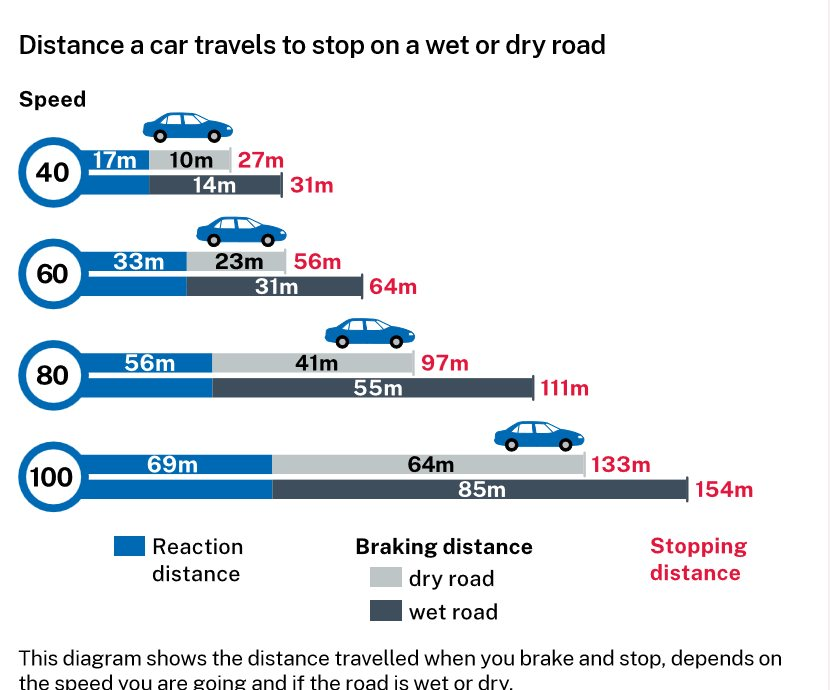
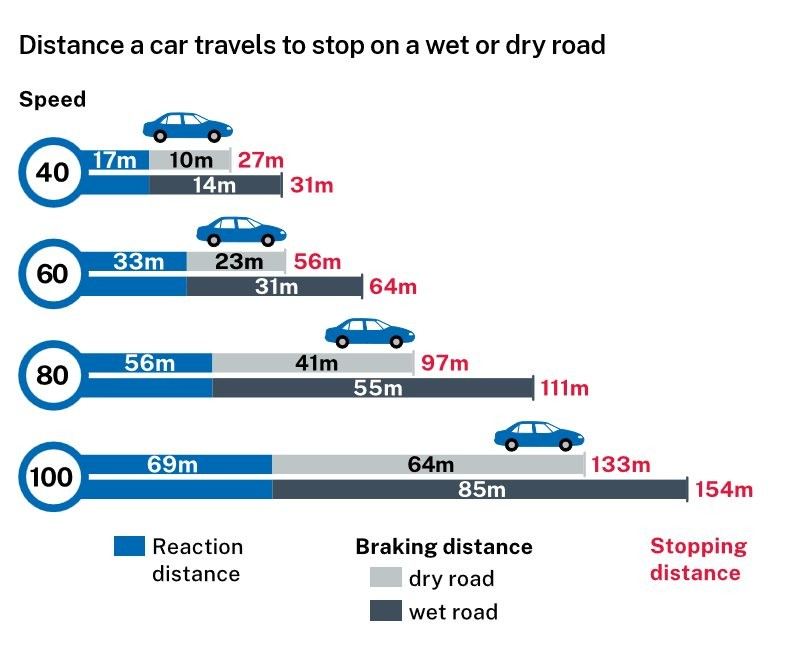
Handbook sample-chapter pass: numbered chapters, indented subsections, fixed P1/P2 BAC, condensed bullets, clean sign/crash-diagram crops
- Sidebar chapter icons replaced with order numbers (1, 2, 3...)
- Subsection list now visually indented under its chapter
- Fixed BAC table: Provisional P1 and P2 are both Zero, not 0.05/0.02
- Condensed "Safe driving behaviour" chapter bullets to key points only
- Replaced 2 badly-cropped composite sign screenshots with 8 clean individual sign crops (own captions)
- Replaced 2 crash-type composites (clipped/missing labels) with 5 individual diagram crops
- Tightened stopping-distance-chart.jpg crop (was cutting off its own caption)

Changed region(s): [[0.0, 0.124, 0.9375, 1.0], [0.0, 0.031, 0.7812, 0.093]]

diff --git a/data/handbook.js b/data/handbook.js
@@ -140,41 +140,47 @@ window.HANDBOOK = [
         "title": "Speed limits",
         "page": 32,
         "figures": [
-          { "src": "images-handbook/speed-signs-1.png", "caption": "Regulatory, variable, local traffic area and high pedestrian activity speed signs." },
-          { "src": "images-handbook/speed-signs-2-zones.png", "caption": "Shared zone and school zone speed signs." }
+          { "src": "images-handbook/speed-sign-regulatory.png", "caption": "Regulatory sign: white background, red circle — the legal limit." },
+          { "src": "images-handbook/speed-sign-variable.png", "caption": "Variable electronic signs — change with road conditions." },
+          { "src": "images-handbook/speed-sign-local-traffic-area.png", "caption": "Local traffic area — 40km/h residential streets." },
+          { "src": "images-handbook/speed-sign-high-pedestrian.png", "caption": "High pedestrian activity area — 30 or 40km/h." },
+          { "src": "images-handbook/speed-sign-shared-zone.png", "caption": "Shared zone (10km/h) and its end sign." },
+          { "src": "images-handbook/speed-sign-school-zone-flag.png", "caption": "School zone start sign." },
+          { "src": "images-handbook/speed-sign-school-zone-times.png", "caption": "School zone times and speed limit." },
+          { "src": "images-handbook/speed-sign-school-zone-end.png", "caption": "End of school zone — limit reverts." }
         ],
         "bullets": [
-          "Speeding is the number one killer on NSW roads — a factor in around 40% of deaths and 20% of serious injuries each year.",
-          "Default limits where there's no sign: 50km/h in built-up areas (street lights/buildings less than 100m apart); 100km/h everywhere else. Where a sign is posted, you must not exceed it.",
-          "Your licence caps the speed you can drive even if the sign is higher: Learner and P1 capped at 90km/h; P2 at 100km/h; heavy vehicles over 4.5t GVM (LR/MR/HR/HC/MC) capped at 100km/h.",
-          "It's illegal to carry a radar detector or jammer — anything that detects, interferes with or reduces the effectiveness of speed-measuring devices.",
-          "Penalties: fines, demerit points (including doubled), loss of licence, vehicle/plate impoundment — worse the further over and in school zones. Any speeding offence puts a learner or P1 driver over their demerit limit and suspends their licence.",
-          "Sign types: regulatory (white sign, red circle = legal limit); variable electronic signs (tunnels/motorways/bridges, change with conditions); local traffic areas (40km/h residential streets); high pedestrian activity areas (30 or 40km/h, e.g. CBDs/shopping strips); shared zones (10km/h, must give way to pedestrians); school zones (signed times on school days, flashing lights plus \"dragon's teeth\" road markings); school bus stop zones and buses showing \"40 when lights flash\" (max 40km/h passing in either direction while flashing); roadwork zones (signed limit).",
-          "Advisory speed signs (yellow) show a safe recommended speed for hazards like curves — not a legal limit, but slow further still in poor conditions.",
-          "Four speed camera types: mobile (moved anywhere, anytime), red-light speed cameras (multi-lane intersections), fixed (high-risk locations like tunnels), average speed cameras (measure average speed over a distance).",
-          "Even 5–10km/h over feels \"acceptable\" to some, but meaningfully raises crash risk — a pedestrian hit at 50km/h is about twice as likely to die as one hit at 40km/h."
+          "Speeding is the #1 killer on NSW roads (~40% of deaths, ~20% of serious injuries).",
+          "No sign = default limit: 50km/h built-up, 100km/h elsewhere. Never exceed a posted sign.",
+          "Licence caps regardless of the sign: Learner/P1 90km/h; P2 100km/h; heavy vehicles (LR/MR/HR/HC/MC) 100km/h.",
+          "Radar detectors/jammers are illegal to carry.",
+          "Penalties: fines, demerit points (can double), licence loss, impoundment — worse over the limit and in school zones; a learner/P1 speeding offence suspends their licence.",
+          "Sign types: regulatory (fixed limit); variable electronic (tunnels/motorways); local traffic area (40, residential); high pedestrian area (30/40); shared zone (10, give way to pedestrians); school zone (signed times, flashing lights, dragon's teeth); school bus \"40 when lights flash\"; roadwork zones (signed).",
+          "Advisory (yellow) signs are a recommended safe speed for a hazard, not a legal limit.",
+          "4 camera types: mobile, red-light speed, fixed, average-speed (over a distance).",
+          "Small margins matter: a pedestrian hit at 50km/h is ~2x as likely to die as one hit at 40km/h."
         ]
       },
       {
         "title": "Alcohol limits",
         "page": 39,
         "bullets": [
-          "Your legal blood alcohol concentration (BAC) limit depends on your licence and the vehicle you're driving — see the table below.",
-          "You can't reliably estimate your own BAC — size, tiredness and serving size all vary it, so not drinking at all is the only sure way to stay under.",
-          "Must not drive under the influence of alcohol, and must not drink alcohol while actually driving even if you'd stay under your limit.",
-          "Must not refuse a Random Breath Test — police can test you anytime, and must test any driver involved in a crash.",
-          "Must not refuse a blood/urine test after a crash; police can arrest you for one after a fatal/likely-fatal crash, and hospital staff can test you if you're admitted.",
-          "Penalties scale with how far over the limit and repeat offences: fines, loss of licence, prison, or a mandatory alcohol interlock. Drinking while driving under the limit still draws a fine and demerit points.",
-          "Even 1–2 drinks impair reaction, judgement and speed/distance perception, give false confidence, hurt multitasking and cause drowsiness.",
-          "Around 50% of Thursday/Friday/Saturday night fatal crashes involve alcohol, and drink-driving crashes tend to be more serious.",
-          "Only time reduces BAC — it can take 18+ hours after heavy drinking; coffee, a shower or a meal won't speed it up. Plan a non-driving way home if you're drinking."
+          "BAC limit depends on your licence/vehicle — see the table below.",
+          "Can't reliably estimate your own BAC — not drinking at all is the only sure way to stay under.",
+          "Must not drive under the influence, or drink alcohol while actually driving.",
+          "Must not refuse a Random Breath Test (anytime; mandatory after a crash).",
+          "Must not refuse a blood/urine test after a crash — arrest possible after a fatal/likely-fatal crash; hospital admission also testable.",
+          "Penalties scale with how far over + repeat offences: fines, licence loss, prison, or a mandatory alcohol interlock. Even under-limit drink-driving draws a fine and demerit points.",
+          "Even 1–2 drinks impair reaction, judgement and distance perception; cause false confidence and drowsiness.",
+          "~50% of Thu/Fri/Sat night fatal crashes involve alcohol.",
+          "Only time reduces BAC (18+ hours after heavy drinking) — not coffee, a shower or a meal."
         ],
         "table": {
           "headers": ["Licence / vehicle type", "BAC limit"],
           "rows": [
             ["Learner", "Zero"],
-            ["Provisional P1", "Under 0.05"],
-            ["Provisional P2", "Under 0.02"],
+            ["Provisional P1", "Zero"],
+            ["Provisional P2", "Zero"],
             ["Full licence (C/R), interstate/overseas full licence", "Under 0.05"],
             ["Public passenger vehicles (buses, taxis, rideshare, chauffeured hire cars)", "Under 0.02"],
             ["Heavy vehicles/combinations over 13.9 tonnes", "Under 0.02"],
@@ -186,13 +192,13 @@ window.HANDBOOK = [
         "title": "Drugs and medicines",
         "page": 43,
         "bullets": [
-          "Must not drive with illegal drugs present in your system, or under the influence of any drug — illegal, prescription or over-the-counter.",
-          "Mobile Drug Testing (MDT) can test any driver or supervisor for 4 common illegal drugs: ecstasy, cannabis, cocaine, methamphetamine (incl. speed/ice) — they can stay detectable long after use.",
-          "Testing methods: a random roadside saliva/oral-fluid swab for illegal drugs; a blood/urine test after signs of drug influence and a sobriety assessment, after a fatal/likely-fatal crash, or on hospital admission — covering a wider range of drugs and medicines. Must not refuse either.",
-          "Penalties: presence of illegal drugs → fine and licence loss; driving under the influence (incl. prescription drugs) → heavier penalties, up to prison.",
-          "Stimulants (ecstasy, cocaine, meth) create false confidence and encourage aggressive, risky driving; opiates (heroin, morphine, codeine, methadone) cause drowsiness and slow reactions; cannabis slows reactions and distorts perception of distance/time and decision-making.",
-          "Medicines that can affect driving: painkillers; blood pressure, nausea, allergy, anti-inflammatory and anti-fungal medicines; tranquillisers/sedatives/sleeping pills; diet pills; cold and flu medicines — check warning labels and ask a doctor or pharmacist if unsure.",
-          "Never mix drugs with alcohol or with each other — the effects are unpredictable and more dangerous."
+          "Must not drive with illegal drugs present, or under the influence of any drug (illegal, prescription or over-the-counter).",
+          "Mobile Drug Testing (MDT): roadside test for 4 illegal drugs (ecstasy, cannabis, cocaine, meth) — detectable long after use.",
+          "Testing: random roadside saliva swab; blood/urine test after signs of influence, a fatal/likely-fatal crash, or hospital admission (covers medicines too). Must not refuse.",
+          "Penalties: illegal drugs present → fine + licence loss; driving under the influence (incl. prescription) → heavier, up to prison.",
+          "Effects: stimulants (ecstasy/cocaine/meth) → false confidence, risky driving; opiates → drowsiness, slow reactions; cannabis → slower reactions, distorted perception.",
+          "Medicines that can affect driving: painkillers, blood pressure/nausea/allergy/anti-inflammatory/anti-fungal meds, tranquillisers/sedatives, diet pills, cold/flu meds — check labels, ask a doctor/pharmacist.",
+          "Never mix drugs with alcohol or each other."
         ]
       },
       {
@@ -202,15 +208,15 @@ window.HANDBOOK = [
           { "src": "images-handbook/seatbelt-fit.jpg", "caption": "The person with the tick is wearing their seatbelt correctly (low, flat and firm); the person with the cross is not." }
         ],
         "bullets": [
-          "Around 30 people are killed and 90 seriously injured each year in NSW from not wearing a seatbelt — preventable by wearing one properly.",
-          "Drivers and passengers must wear a seatbelt and keep their whole body inside the vehicle.",
-          "Driver's responsibility: one seatbelt per passenger (never shared), correctly adjusted belts or an approved child seat for each passenger's age/size, no more passengers than seats/belts allow, and nobody riding in a non-passenger area (boot, floor, ute tray, trailer, caravan).",
-          "Passengers aged 16+ are also responsible for wearing their own seatbelt properly and staying inside the vehicle.",
-          "Wear it \"low, flat and firm\": low over the hips, no twists or folds, pulled firm and over the shoulder — never under the arm or behind the back.",
-          "A seatbelt roughly doubles your chance of surviving a crash and reduces injury risk.",
-          "Penalties: seatbelt-detection cameras and police can fine the driver and any passenger 16+ for non-compliance; fines, demerit points and double demerit points apply.",
-          "Exemptions for full-licence drivers: while reversing, or driving a garbage/delivery vehicle under 25km/h with frequent stops; their passengers are exempt when giving/getting urgent medical treatment, or riding in that same slow garbage/delivery vehicle.",
-          "Any driver or passenger (incl. learner/P1/P2) can be exempt with a medical condition and certificate; where possible, an exempt passenger should sit in the back seat."
+          "~30 killed, ~90 seriously injured yearly in NSW from not wearing a seatbelt.",
+          "Drivers and passengers must wear a seatbelt, whole body inside the vehicle.",
+          "Driver's responsibility: one belt per passenger (never shared), correct fit or an approved child seat, no more passengers than belts, nobody in a non-passenger area (boot, floor, ute tray, trailer).",
+          "Passengers 16+ are also responsible for wearing their own belt properly.",
+          "Wear it \"low, flat and firm\" — never under the arm or behind the back.",
+          "A seatbelt roughly doubles your chance of surviving a crash.",
+          "Penalties: detection cameras + police can fine the driver and any passenger 16+; demerit points (can double).",
+          "Exemptions (full licence): reversing, or a slow garbage/delivery vehicle; their passengers when giving/getting urgent medical treatment.",
+          "Any driver/passenger (incl. learner/P1/P2) can be medically exempt with a certificate — sit in the back if possible."
         ]
       },
       {
@@ -220,14 +226,14 @@ window.HANDBOOK = [
           { "src": "images-handbook/child-seat-ages.jpg", "caption": "Children wearing their seatbelt or child restraint properly for their age." }
         ],
         "bullets": [
-          "Children under 7 must use an approved child restraint meeting AS/NZS 1754 — the driver is responsible for this. See the age bands below.",
-          "7–16 year-olds too small for an adult belt should use a booster, forward-facing seat or anchored harness; suggested minimum height for an adult lap-sash belt is 145cm.",
-          "Fitting must follow the manufacturer's instructions, tightly adjusted and attached to a proper anchorage point — an Authorised Restraint Fitter at an Authorised Restraint Fitting Station is recommended.",
-          "Booster seats must be used with a lap-and-sash belt or an approved anchored harness (never a lap-only belt); boosters over 2kg must be anchored.",
-          "Front seat: under-4s must not sit in front of a vehicle with 2+ rows (a single-row vehicle is OK with an approved seat); 4–7 year-olds must not sit in front of a 2+ row vehicle unless every back-row seat is already taken by other under-7s.",
-          "Exemptions: a child under 12 months can travel in a tow truck after a crash/breakdown without a proper seat if none is available; taxis follow the same age-based seat/booster/seatbelt rules and must carry a child-restraint anchorage point; a doctor's certificate lets an under-7 with a medical condition use an alternative restraint.",
-          "Penalties: fines and demerit points (incl. double demerit points) for not restraining a child correctly.",
-          "Never share one seatbelt between yourself and a child on your lap, and never carry a child in your arms in a moving vehicle — both risk crushing the child in a crash."
+          "Under-7s: approved restraint (AS/NZS 1754), driver's responsibility — see age table below.",
+          "7–16 too small for an adult belt: booster, forward-facing seat, or anchored harness (adult lap-sash belt needs ~145cm).",
+          "Fit per manufacturer's instructions, tightly adjusted, proper anchorage — an Authorised Restraint Fitter is recommended.",
+          "Booster seats: always with a lap-and-sash belt or anchored harness (never lap-only); boosters over 2kg must be anchored.",
+          "Front seat: under-4s never in a 2+ row vehicle; 4–7s only if every back-row seat is already taken by other under-7s.",
+          "Exemptions: under-12-months in a tow truck if no proper seat is available; taxis follow the same rules; doctor's certificate for an alternative restraint.",
+          "Penalties: fines and demerit points (can double) for not restraining a child correctly.",
+          "Never share a seatbelt with a child on your lap, and never carry a child in your arms while driving."
         ],
         "table": {
           "headers": ["Age", "Restraint required"],
@@ -243,22 +249,22 @@ window.HANDBOOK = [
         "title": "Mobile phones",
         "page": 54,
         "bullets": [
-          "Learner/P1/P2: must not use a phone at all while driving, even stationary — no calls, texts, music, email, social media, internet, maps or photos, whether handheld, in a holder, or hands-free/Bluetooth.",
-          "Full-licence drivers get only two uses: Bluetooth hands-free for voice calls or audio; or a vehicle-fixed phone holder for voice calls, audio, or as a driver's aid (maps/navigation/dispatch). The holder must be commercially made, fixed, and not block your view.",
-          "No other function is allowed for a full-licence driver either (texting, video calls, email, social media, internet, photography), and the phone must never be held or rested on the leg or between shoulder and ear.",
-          "Any driver can use a phone for any function once safely parked out of the line of traffic (ignition doesn't need to be off).",
-          "Exemptions for all drivers: showing a digital licence to police; a stationary tap-and-pay in a car park, driveway or drive-through.",
-          "Penalties: mobile phone detection cameras operate anywhere, anytime; fines and doubled demerit points apply, and a learner or P1 driver will go over their demerit limit and lose their licence.",
-          "Using a phone while driving can roughly quadruple the risk of a casualty crash."
+          "Learner/P1/P2: zero phone use while driving, even stationary — no calls, texts, music, maps or photos, handheld or hands-free/Bluetooth.",
+          "Full licence, only two uses: Bluetooth hands-free (calls/audio); or a fixed, commercially-made holder for calls/audio/navigation.",
+          "No other function for a full-licence driver either (texting, video, social media, photos); never held or rested on the leg/shoulder.",
+          "Any driver: any use once safely parked out of the line of traffic.",
+          "Exemptions: showing a digital licence to police; a stationary tap-and-pay.",
+          "Penalties: detection cameras operate anywhere/anytime; fines + doubled demerit points; a learner/P1 over the limit loses their licence.",
+          "Phone use while driving roughly quadruples casualty-crash risk."
         ]
       },
       {
         "title": "Digital screens and GPS",
         "page": 57,
         "bullets": [
-          "Must not have a digital screen (tablet, laptop, dashboard screen) switched on if you can see it or it could distract another driver — unless it's a driver's aid (GPS/navigation, dispatch, reversing screen, CCTV security, vehicle monitoring) fixed in a proper holder or built in.",
-          "Passengers can use screens, but they must not be visible to the driver from the normal driving position or distract another driver.",
-          "Penalties: fine and demerit points for illegal use."
+          "No visible/distracting digital screen unless it's a driver's aid (GPS, dispatch, reversing/CCTV/monitoring) properly fixed or built in.",
+          "Passengers can use screens if not visible to the driver or distracting.",
+          "Penalties: fine and demerit points."
         ]
       },
       {
@@ -268,32 +274,32 @@ window.HANDBOOK = [
           { "src": "images-handbook/rest-area-sign.jpg", "caption": "A rest area sign — rest areas are open 24/7 but you must not camp in them." }
         ],
         "bullets": [
-          "Fatigue causes around 20% of NSW road deaths each year; fatigue-related crashes are about twice as likely to be fatal.",
-          "Being awake for about 17 hours affects your driving similarly to a BAC of 0.05.",
-          "Affects everyone regardless of experience, and on short everyday trips, not just long or night drives. Higher-risk groups: shift workers, professional drivers, early-starting tradies, students, new parents.",
-          "There's no specific road rule against it, but it's your responsibility not to put yourself or others at risk.",
-          "Prevention: aim for about 8 hours' sleep a night (teens need more); wait ~30 minutes after waking before driving (sleep inertia); avoid driving during your body's normal sleep hours — fatal fatigue-crash risk is 4x higher late at night and early morning.",
-          "Warning signs: yawning, poor concentration, sore/tired eyes, restlessness, drowsiness, slow reactions, boredom, irritability, bigger/less frequent steering corrections, missing signs, drifting in the lane.",
-          "Stop and nap (about 20 minutes) as soon as you notice signs, rather than waiting for a microsleep — a 4-second microsleep at 100km/h covers 110m+ with your eyes off the road.",
-          "Plan regular breaks in advance, share the driving where you can, stay hydrated, and avoid alcohol, fatty food, too much coffee or sugary drinks.",
-          "Use rest areas (open 24/7, no camping), petrol stations, parks, country towns, or seasonal Driver Reviver sites for a free tea/coffee and a break."
+          "Causes ~20% of NSW road deaths; fatigue crashes ~2x as likely to be fatal.",
+          "Awake ~17 hours ≈ driving at a BAC of 0.05.",
+          "Affects everyone, even on short trips. Higher risk: shift workers, professional drivers, early-starting tradies, students, new parents.",
+          "No specific road rule against it, but it's your responsibility.",
+          "Prevention: ~8 hours' sleep a night; wait ~30 min after waking; avoid your body's normal sleep hours (fatal-crash risk 4x higher late night/early morning).",
+          "Warning signs: yawning, poor concentration, sore eyes, drowsiness, slow reactions, drifting, missing signs.",
+          "Stop and nap (~20 min) at the first signs — a 4-second microsleep at 100km/h covers 110m+ blind.",
+          "Plan breaks, share driving, stay hydrated; avoid alcohol, fatty food, too much coffee.",
+          "Rest areas (24/7, no camping), petrol stations, or seasonal Driver Reviver sites."
         ]
       },
       {
         "title": "Hooning and street racing",
         "page": 62,
         "bullets": [
-          "Must not organise, take part in, promote or even film/photograph hooning or street racing — including burnouts/donuts (deliberately losing traction), racing other vehicles, or speed trials/record attempts.",
-          "Your vehicle and licence can be confiscated on the spot.",
-          "Penalties: large fines, demerit points, loss of licence, impoundment (up to 3 months plus storage fees to reclaim it), and prison; a second offence can mean the vehicle is sold."
+          "Must not organise, take part in, promote or even film hooning or street racing (burnouts, racing other vehicles, speed trials).",
+          "Vehicle and licence can be confiscated on the spot.",
+          "Penalties: large fines, demerit points, licence loss, impoundment (up to 3 months + fees), prison; a repeat offence can mean the vehicle is sold."
         ]
       },
       {
         "title": "Negligent or dangerous driving",
         "page": 63,
         "bullets": [
-          "Means driving without the due care and attention reasonably expected of a driver, or at a speed/in a manner dangerous to the public — risking serious injury or death.",
-          "Penalties: negligent driving → fine and demerit points; dangerous driving, or negligent driving causing death or injury → large fines, loss of licence, prison."
+          "Negligent = below the care/attention expected of a driver; dangerous = speed/manner risking serious injury or death.",
+          "Penalties: negligent → fine + demerit points; dangerous, or negligent causing death/injury → large fines, licence loss, prison."
         ]
       },
       {
@@ -305,28 +311,30 @@ window.HANDBOOK = [
           { "src": "images-handbook/stopping-distance-chart.jpg", "caption": "The distance a car travels to stop at 40/60/80/100km/h, on a dry vs wet road." }
         ],
         "bullets": [
-          "Keep enough space to stop safely behind the vehicle in front — a 3-second gap in good conditions, rising to 4+ seconds in poor conditions (unsealed, icy or wet roads, night).",
-          "Driving a long vehicle (over 7.5m incl. towed): stay at least 60m behind another long vehicle, except on multi-lane roads, in built-up areas, or while overtaking.",
+          "Keep a 3-second gap behind the vehicle in front (4+ seconds in poor conditions: unsealed, icy/wet, night).",
+          "Long vehicle (over 7.5m incl. towed): stay 60m+ behind another long vehicle, except on multi-lane roads, built-up areas, or while overtaking.",
           "Penalties: fine and demerit points for following too closely.",
-          "Road positioning (\"buffering\"): keep space around your vehicle for hazards — e.g. keep left over blind hills/sharp corners, avoid the door zone of parked cars; check mirrors before repositioning.",
-          "Crash avoidance space = reaction time (~1.5s alert and sober, up to ~2.5s at higher speed) plus response time (~1.5s to act) — around a 3-second gap in good conditions.",
-          "Check your gap: pick a fixed roadside object, and count \"1 thousand and 1, 2 thousand and 2, 3 thousand and 3\" from when the vehicle ahead passes it — if you reach the object before finishing, you're following too close.",
-          "Even 5km/h over the limit meaningfully increases stopping distance; slow down and be ready to stop for anything that could enter your space, including at blind corners and crests.",
-          "Two-stage braking — light pressure and pause (set up), then progressively squeeze — reduces skidding and improves control versus harsh braking, especially on wet or gravel roads.",
-          "Scanning: keep your eyes moving — ahead, at the road surface, to each side, and regularly to your mirrors and instruments."
+          "Buffering: keep space around your vehicle for hazards (e.g. keep left over blind hills, avoid the door zone of parked cars); check mirrors before repositioning.",
+          "Crash-avoidance space = reaction time (~1.5–2.5s) + response time (~1.5s) ≈ a 3-second gap.",
+          "Check your gap: count \"1 thousand and 1, 2 thousand and 2, 3 thousand and 3\" from a fixed object as the vehicle ahead passes it — too close if you reach it first.",
+          "Even 5km/h over the limit meaningfully increases stopping distance — slow down at blind corners/crests.",
+          "Two-stage braking (light pressure + pause, then squeeze) beats harsh braking, especially wet/gravel.",
+          "Scanning: keep your eyes moving — ahead, road surface, each side, mirrors and instruments."
         ]
       },
       {
         "title": "Common crashes in NSW",
         "page": 69,
         "figures": [
-          { "src": "images-handbook/crash-types-1-3.jpg", "caption": "Crash type 1 (rear-end), 2 (adjacent direction) and 3 (opposite direction)." },
-          { "src": "images-handbook/crash-types-4-5.jpg", "caption": "Crash type 4 (running off a straight) and 5 (running off a curve or bend)." }
+          { "src": "images-handbook/crash-type-rearend.jpg", "caption": "1. Rear-end collision." },
+          { "src": "images-handbook/crash-type-adjacent.jpg", "caption": "2. Collision from an adjacent (side) direction." },
+          { "src": "images-handbook/crash-type-opposite.jpg", "caption": "3. Head-on collision with an oncoming vehicle." },
+          { "src": "images-handbook/crash-type-runoff-straight.jpg", "caption": "4. Running off the road on a straight." },
+          { "src": "images-handbook/crash-type-runoff-curve.jpg", "caption": "5. Running off the road on a curve or bend." }
         ],
         "bullets": [
-          "About 80% of NSW casualty crashes fall into 5 types: rear-end collisions; collisions with a vehicle from an adjacent (side) direction; head-on collisions with an oncoming vehicle; running off the road on a straight and hitting something; running off the road on a curve/bend and hitting something.",
-          "These are also the most common crash types for provisional drivers.",
-          "Avoidable by following the road rules and managing speed, fatigue and safe stopping distance, and taking extra care at intersections and when overtaking."
+          "~80% of NSW casualty crashes are one of 5 types (also the most common for provisional drivers): rear-end; adjacent (side) direction; head-on; running off a straight; running off a curve/bend.",
+          "Avoidable by following the road rules and managing speed, fatigue and stopping distance — extra care at intersections and when overtaking."
         ]
       }
     ]

diff --git a/js/app.js b/js/app.js
@@ -327,23 +327,6 @@
 
   /* ---------------- handbook ---------------- */
 
-  function iconForHandbook(id) {
-    var icons = {
-      'licences': '&#128196;',
-      'safe-driving': '&#9888;',
-      'sharing-road': '&#128694;',
-      'stopping-giving-way': '&#128678;',
-      'overtaking-merging': '&#8646;',
-      'road-lanes-lines': '&#128663;',
-      'parking': '&#128665;',
-      'warnings-hazards': '&#9888;',
-      'vehicle-safety': '&#128295;',
-      'vehicle-environment': '&#127793;',
-      'penalties': '&#9878;'
-    };
-    return icons[id] || '&#128218;';
-  }
-
   // Chapters are collapsible toggles; only the chapter holding the active topic
   // starts expanded, so the sidebar reads as a scannable list of chapters rather
   // than a long dump of all 77 topics at once.
@@ -360,7 +343,7 @@
       heading.setAttribute('aria-expanded', 'false');
       var icon = document.createElement('span');
       icon.className = 'hbnav__chapter-icon';
-      icon.innerHTML = iconForHandbook(chapter.id);
+      icon.textContent = cIdx + 1;
       var label = document.createElement('span');
       label.className = 'hbnav__chapter-label';
       label.textContent = chapter.title;

diff --git a/css/styles.css b/css/styles.css
@@ -318,11 +318,23 @@ main.app--wide { max-width: 1100px; }
   cursor: pointer;
 }
 .hbnav__chapter:hover { background: var(--surface-2); color: var(--text); }
-.hbnav__chapter-icon { font-size: 1rem; line-height: 1; }
+.hbnav__chapter-icon {
+  flex: none;
+  width: 18px; height: 18px;
+  display: grid; place-items: center;
+  border-radius: 50%;
+  background: var(--surface-2);
+  font-size: .68rem; font-weight: 700; line-height: 1;
+  color: var(--text-dim);
+}
+.hbnav__chapter[aria-expanded="true"] .hbnav__chapter-icon { background: var(--brand); color: var(--brand-ink); }
 .hbnav__chapter-label { flex: 1; }
 .hbnav__chapter-chevron { flex: none; font-size: .7rem; transition: transform .15s ease; }
 .hbnav__chapter[aria-expanded="true"] .hbnav__chapter-chevron { transform: rotate(180deg); }
-.hbnav__list { list-style: none; margin: 2px 0 10px; padding: 0; display: grid; gap: 2px; }
+.hbnav__list {
+  list-style: none; margin: 2px 0 10px; padding: 0; display: grid; gap: 2px;
+  margin-left: 9px; padding-left: 12px; border-left: 2px solid var(--line);
+}
 .hbnav__link {
   display: block;
   width: 100%;
